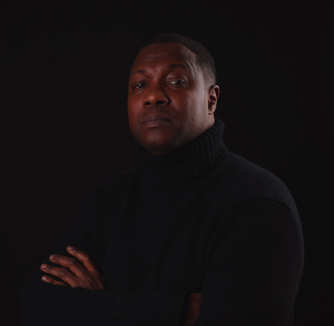
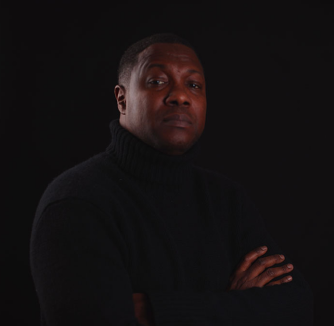
commit

diff --git a/pages/index.js b/pages/index.js
@@ -18,6 +18,7 @@ import Link from "next/link";
 import { motion } from "framer-motion";
 import { NextUIProvider } from "@nextui-org/react";
 import Meta from "../components/Meta";
+import { AnimatePresence } from "framer-motion";
 
 export default function Home() {
   return (
@@ -34,6 +35,7 @@ export default function Home() {
         justifyContent="center"
       >
         <Box component="div" sx={{ maxWidth: "md", width:'900px'}}>
+         
           <Box
             component="div"
             mt={2}
@@ -41,9 +43,18 @@ export default function Home() {
             width:{xs:'100%', sm:'40%', md:'45%', lg:'55%', xl:'55%'}, 
             textAlign:{xs:'center', sm:'left', md:'left', lg:'left', xl:'left'},
             height:'auto',}}
+          > 
+          <motion.div
+          initial={{x: -950}}
+          animate={{x: 1}}
+          transition={{ duration: 1.0}}
           >
-            <Typography variant="h1" className="display" mb={2} >
-              Data-Driven Design for Humans.
+            <Typography 
+            initial={{ opacity: 0 }}
+            transition={{ease: "easeOut", duration: 2.5 }}
+          whileInView={{ opacity: 1 }}
+            variant="h1" className="display" mb={2} >
+              Data-Driven Design for Humans
             </Typography>
             <Typography
             className="headerBody"
@@ -56,6 +67,7 @@ export default function Home() {
             >
               UI/UX designers, developers, and design thinking practitioners who apply a data-driven, human-centered design approach to solving problems.
             </Typography>
+            <motion.div>
             <Button
               color="primary"
               variant="contained"
@@ -64,7 +76,10 @@ export default function Home() {
             >
               <Link href="/story">Learn More...</Link>
             </Button>
+            </motion.div>
+            </motion.div>
           </Box>
+          
         </Box>
       </Box>
 

diff --git a/pages/fade-solutions.js b/pages/fade-solutions.js
@@ -7,7 +7,8 @@ import Image from "next/image";
 import { borders } from "@mui/system";
 import myLoader from "../components/Loader";
 import Meta from "../components/Meta";
-import usabilityTest from '/public/assets/FadeUsabilityTest_LoriMarion_2.gif';
+import { motion, AnimatePresence} from 'framer-motion';
+// import usabilityTest from './assets/FadeUsabilityTest_LoriMarion_2.gif';
 
 const commonStyles = {
   bgcolor: "#e7e6e2",
@@ -561,12 +562,12 @@ const FadeDesign = () => {
                 alignItems="center"
                 className="imageBorderradius"
               >
-                <img
+                {/* <img
                   src={usabilityTest}
                   width="640"
                   height="377"
                   alt="Usability Testing"
-                /> 
+                />   */}
               </Box>
             </Grid>
             <Grid item xs={12} sm={12} md={12} lg={12} mb={8}>

diff --git a/components/AppBar.js b/components/AppBar.js
@@ -26,7 +26,7 @@ import {css} from '@emotion/react';
 import { alpha } from "@mui/material";
 import lightTheme from '../styles/theme/lightTheme';
 import { useRouter } from 'next/router';
-
+import ClearTwoToneIcon from '@mui/icons-material/ClearTwoTone';
 
 const drawerWidth = 240;
 const navItems = ['Story', 'Media', 'Contact'];

diff --git a/pages/story.js b/pages/story.js
@@ -68,7 +68,7 @@ const Story = () => {
   >
   <Avatar
   size="200px"
-  src="http://www.worldshaker.com/assets/rh.png"
+  src="http://www.worldshaker.com/assets/me3.png"
   color="gradient"
   bordered
 /> 
